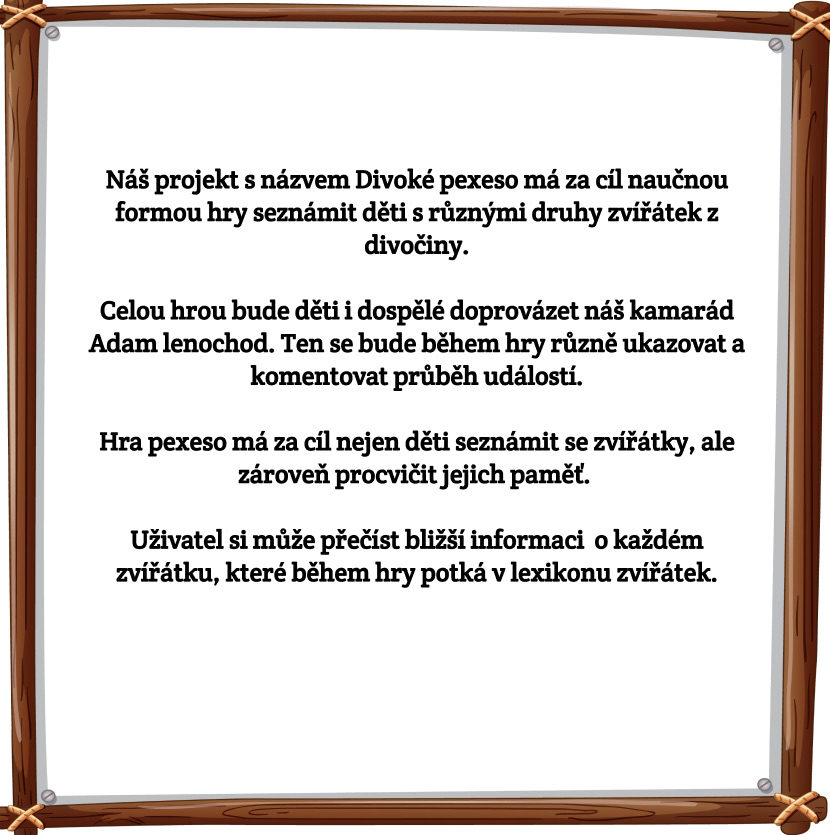
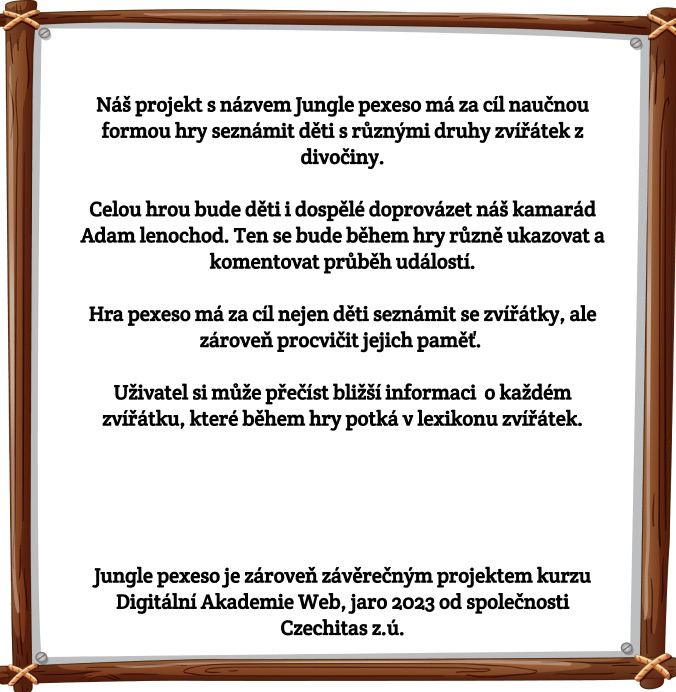
úprava

Changed region(s): [[0.0932, 0.1214, 0.9009, 0.698], [0.0, 0.0, 1.0, 1.0]]

diff --git a/tereza.html b/tereza.html
@@ -1,60 +1,44 @@
 <!DOCTYPE html>
 <html lang="cs">
-<head>
-    <meta charset="UTF-8">
-    <meta http-equiv="X-UA-Compatible" content="IE=edge">
-    <meta name="viewport" content="width=device-width, initial-scale=1.0">
+  <head>
+    <meta charset="UTF-8" />
+    <meta http-equiv="X-UA-Compatible" content="IE=edge" />
+    <meta name="viewport" content="width=device-width, initial-scale=1.0" />
     <title>Tereza</title>
-    <link rel="stylesheet" href="style.css">
-</head>
+    <link rel="stylesheet" href="style.css" />
+  </head>
 
-<body class="container">
+  <body class="container">
     <header>
-      <a href="index.html">O projektu</a>
-      <a href="lydie.html">Lýdie Čiháková</a>
+      <a href="index.html">Domů</a>
       <a href="tereza.html">Tereza Maninová</a>
+      <a href="about.html">Návrh projektu</a>
     </header>
     <section>
       <div>
         <img class="terka_foto" src="Img/me.jpg" alt="" />
       </div>
       <div>
-        <h2 class="name">Tereza Maninová</h2>
-        <p class="info">
-          Ráda se učím nové věci a poznávám nová místa :)
-         <p class="info"> Pracovala jsem převážně v gastronomii.</p>
-          
-        </p>
-        <p class="info">
-            Do budoucna bych chtěla spojit práci s cestováním.
-        </p>
-        <p class="info">
-            Jsem připravená se rozvíjet v oblasti IT a i v osobní stránce.
-          
-        </p>
+        <h2></h2>
+        <img class="omne" src="Img/omne2.jpeg" alt="about" />
 
         <div class="logo_git">
           <img src="Img/github.png" alt="" />
           <a style="color: black" href="https://github.com/Terezm"
             >https://github.com/Terezm</a
           >
-          <br>
-          <br>
+          <br />
+          <br />
           <div class="lnkd">
-        <img src="Img/unnamed.webp" alt="" />
-        <a style="color: black" href="https://www.linkedin.com/in/tereza-maninova/"
-          >https://www.linkedin.com/in/tereza-maninova/</a
-        >
-      </div>
+            <img src="Img/unnamed.webp" alt="" />
+            <a
+              style="color: black"
+              href="https://www.linkedin.com/in/tereza-maninova/"
+              >https://www.linkedin.com/in/tereza-maninova/</a
+            >
+          </div>
         </div>
-       
       </div>
-
-
-      
-      
     </section>
-
-
-</body>
+  </body>
 </html>

diff --git a/style.css b/style.css
@@ -8,7 +8,7 @@
 
   display: flex;
   flex-direction: column;
-  background-image: url(Img/greenFrame.jpg);
+  background-image: url(Img/jungle.svg);
   background-size: cover;
   background-position: center;
 
@@ -36,7 +36,7 @@ a {
   padding: 10px;
   background-color: rgb(188, 148, 148);
   border-radius: 20px;
-  font-family: cursive;
+  font-family: 'Courier New', Courier, monospace color;
 
 }
 
@@ -48,8 +48,7 @@ h1 {
   display: flex;
   justify-content: center;
   font-size: 50px;
-  font-family:cursive;
-  color: rgb(21, 16, 10);
+  font-family: 'Courier New', Courier, monospace color rgb(21, 16, 10);
 }
 
 .info_about_project {
@@ -74,9 +73,9 @@ h1 {
 
 img {
   width: 90%;
-} */
+}
 
-.foto_info {
+*/ .foto_info {
   display: flex;
   flex-direction: row;
   justify-content: space-between;
@@ -131,42 +130,42 @@ div.logo_git img {
   width: 40px;
 }
 
-/*terka*/ 
+/*terka*/
 .name {
-    display: flex;
-    justify-content: center;
-    font-size: 48px;
-    text-align: center;
-    font-family: cursive;
-  }
-  
-
- .terka_foto {
-
-    width: 200px;
-    border-radius: 50%;
-    float: left;
-    margin: 0 30px 0 0;
-    
+  display: flex;
+  justify-content: center;
+  font-size: 48px;
+  text-align: center;
+  font-family: cursive;
 }
-  
-   
 
 
-  div.lnkd img {
-    width: 40px;
-    padding-top: 40px;
-  }
+.terka_foto {
 
-  .info {
-    font-family: cursive;
-    display: flex;
-    justify-content: left;
-  }
+  width: 200px;
+  border-radius: 50%;
+  float: left;
+  margin: 0 30px 0 0;
 
-  .lnkd {
-    display: flex;
-    flex-direction: row;
-    align-items: center;
-    margin-left: 20px;
-  }
+}
+
+
+
+
+div.lnkd img {
+  width: 40px;
+  padding-top: 40px;
+}
+
+.info {
+  font-family: cursive;
+  display: flex;
+  justify-content: left;
+}
+
+.lnkd {
+  display: flex;
+  flex-direction: row;
+  align-items: center;
+  margin-left: 20px;
+}

diff --git a/lydie.html b/lydie.html
@@ -8,35 +8,31 @@
 
     <script type="module" src="script.js"></script>
 
-    <title>Divoké pexeso</title>
+    <title>Jungle pexeso</title>
   </head>
   <body class="container">
     <header>
-      <a href="index.html">O projektu</a>
+      <a href="index.html">Domů</a>
       <a href="lydie.html">Lýdie Čiháková</a>
-      <a href="tereza.html">Tereza Maninová</a>
+      <a href="about.html">Návrh projektu</a>
     </header>
     <section>
       <div>
         <img class="my_foto" src="Img/lydie.jpeg" alt="" />
       </div>
       <div>
-        <h2>Ahoj, jmenuji se Lýdie</h2>
-        <p>
-          <b>Něco málo o mně </b>Před nástupem na RD jsem pracovala v
-          administrativě mezi účetním a technickým oddělením.
-        </p>
-        <p>
-          <b>Ráda: </b>Když dostanu prostor, ráda se schovám ve svém kreativním
-          světě.
-        </p>
-        <p>
-          <b>Jsem: </b>Bez dávky kávy a humoru si nedokážu představit svůj den.
-          😊
-        </p>
+        <h2></h2>
+        <img class="omne" src="Img/omne.jpeg" alt="about" />
+
+        <br />
+        <br />
+        <br />
+        <br />
+        <br />
+        <br />
 
         <div class="logo_git">
-          <img src="Img/lenochod.jpeg" alt="" />
+          <img src="Img/github.png" alt="" />
           <a style="color: black" href="lydiecihakova88.github.io/o-projektu/"
             >https://github.com/LydieCihakova88</a
           >

diff --git a/about.html b/about.html
@@ -21,7 +21,7 @@
       <div>
         <h1>Jungle pexeso</h1>
 
-        <img class="frame" src="Img/frame.jpeg" alt="desktop" />
+        <img class="frame" src="Img/desktop.jpeg" alt="desktop" />
       </div>
       <div>
         <p></p>
@@ -36,3 +36,5 @@
     </footer>
   </body>
 </html>
+
+
